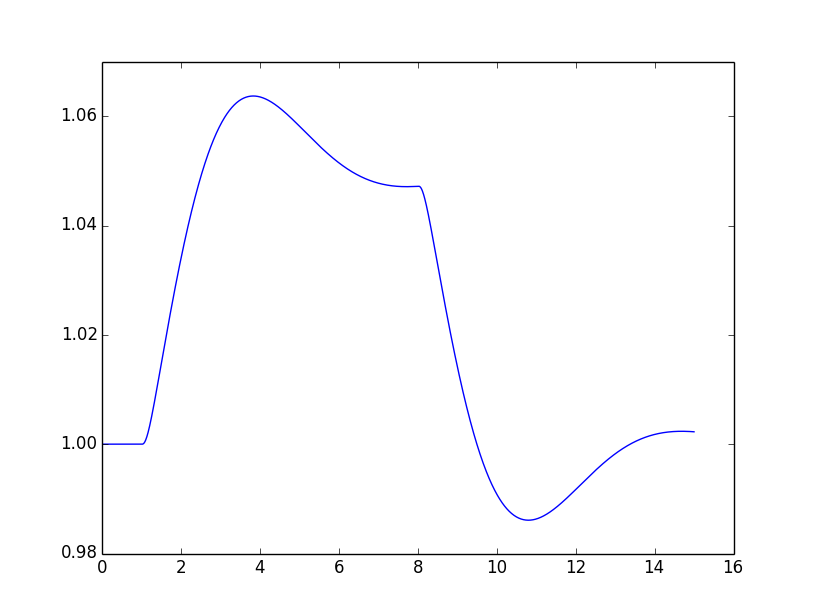
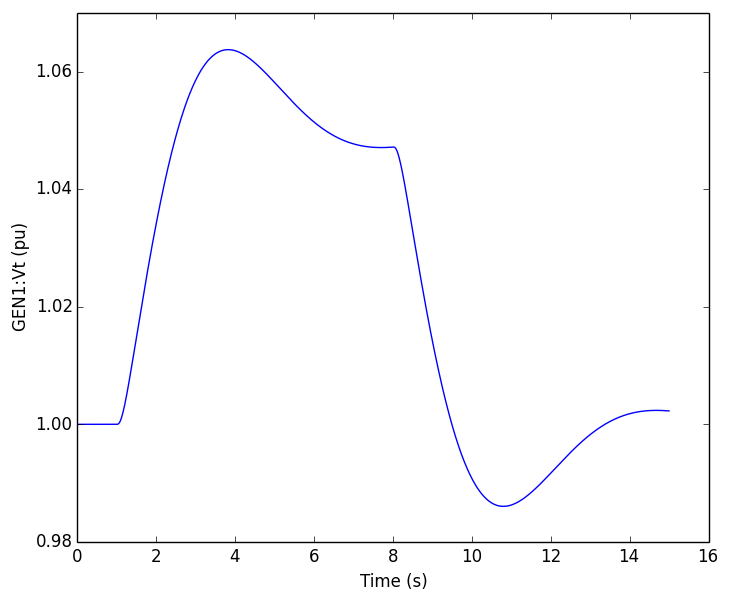
Updated screenshot

diff --git a/test_open_loop.py b/test_open_loop.py
@@ -116,5 +116,7 @@ if __name__ == '__main__':
             oCtrl.signals['Vref'] = oCtrl.signals['Vref'] - 0.05
         
     plt.plot(t_axis,y1)
+    plt.xlabel('Time (s)')
+    plt.ylabel('GEN1:Vt (pu)')
     plt.show()
     f.close()
